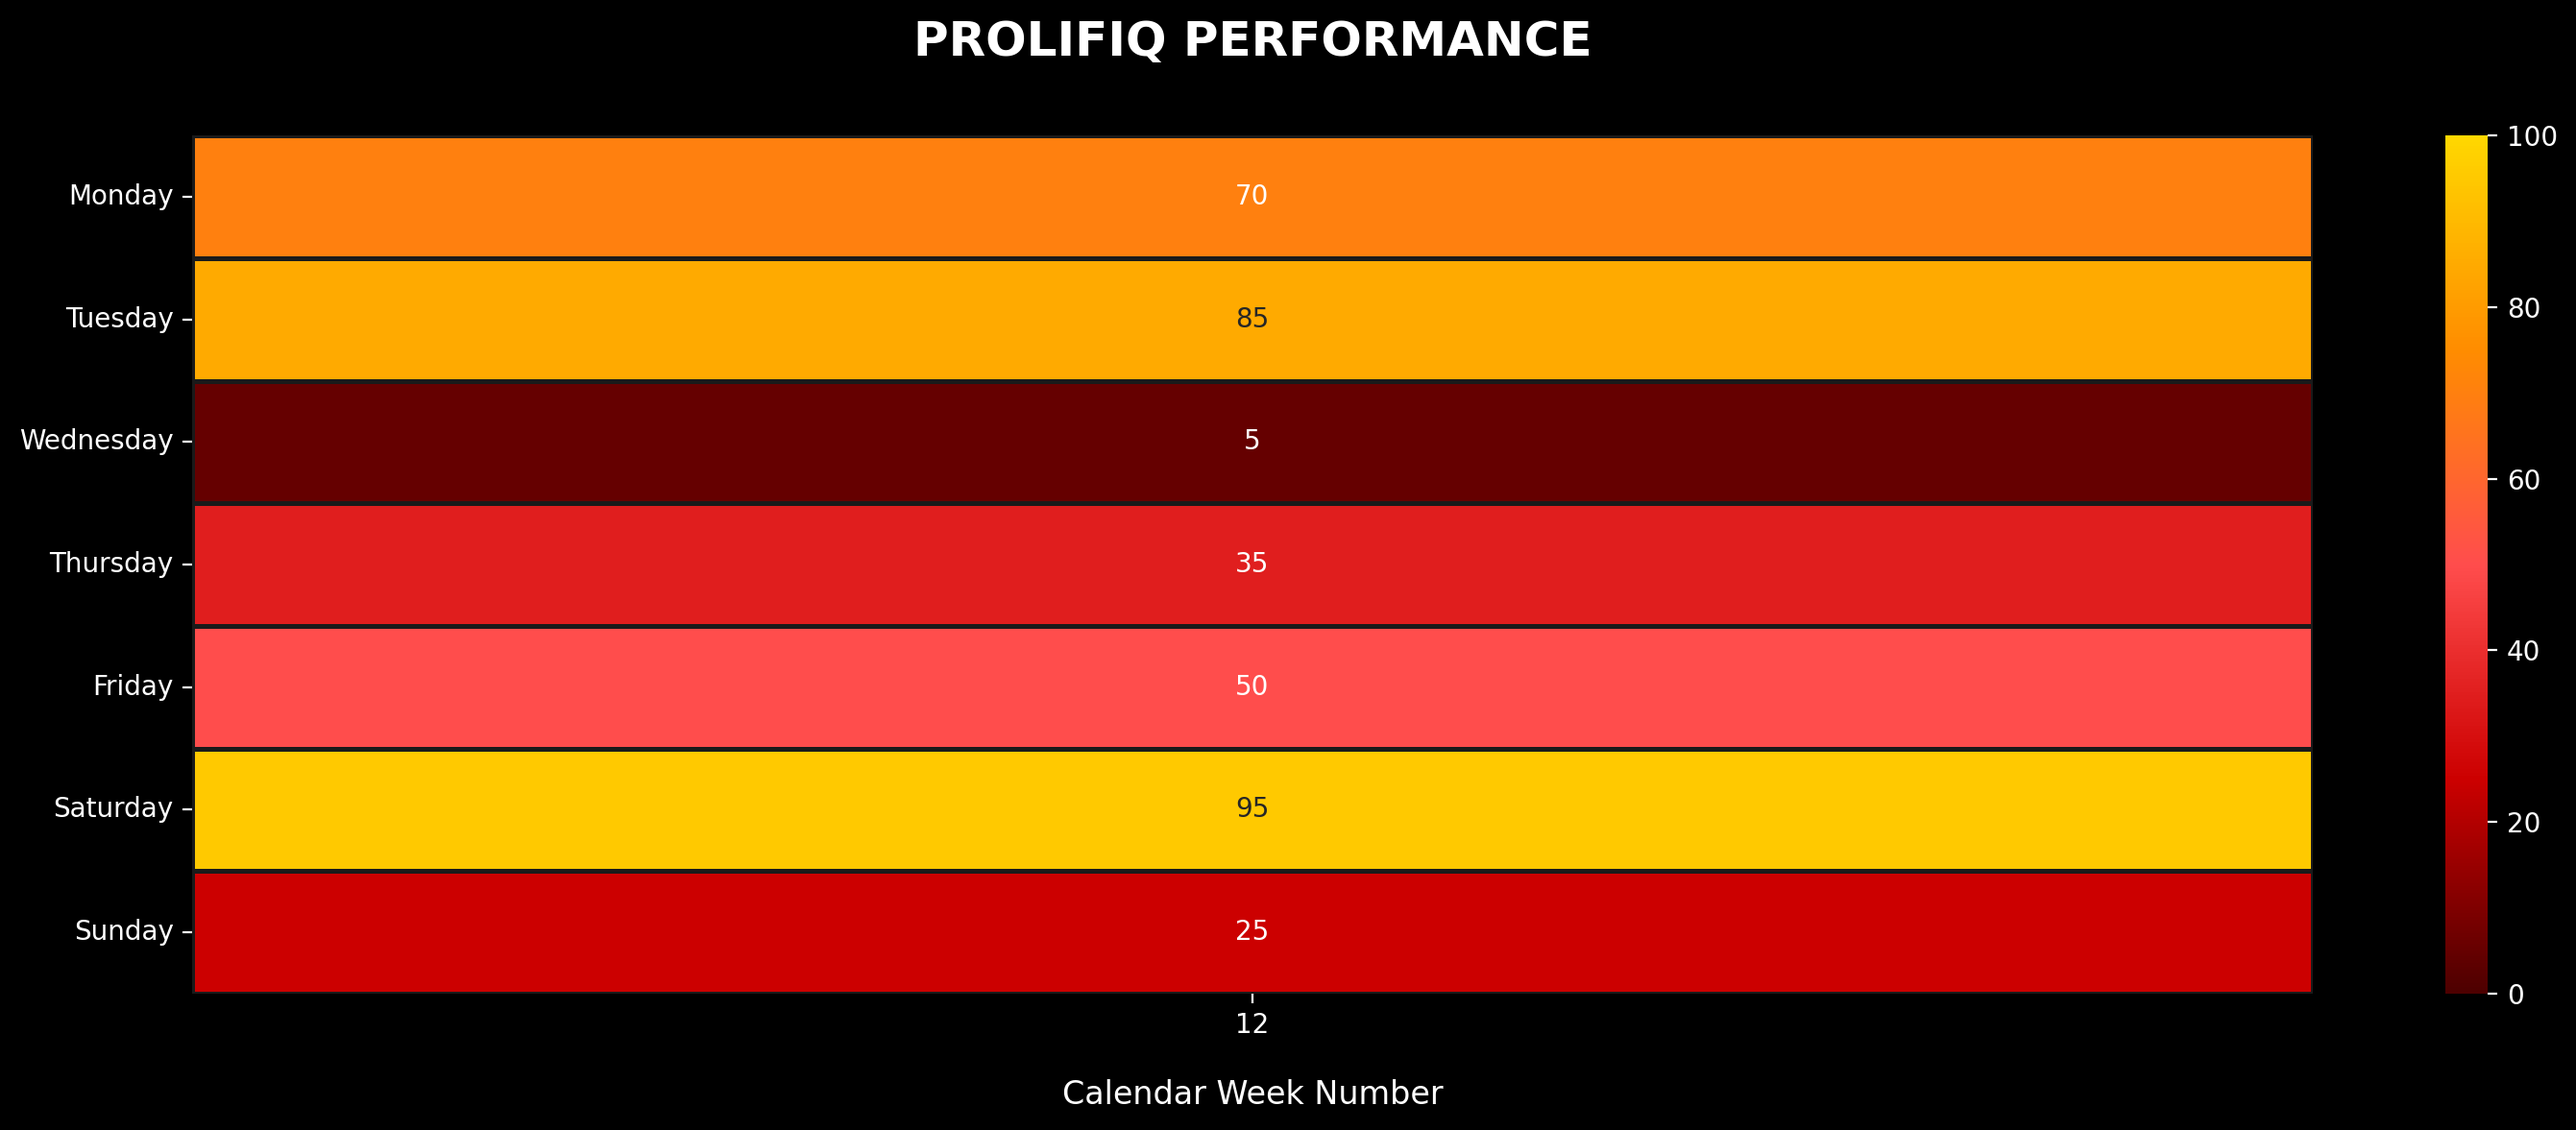
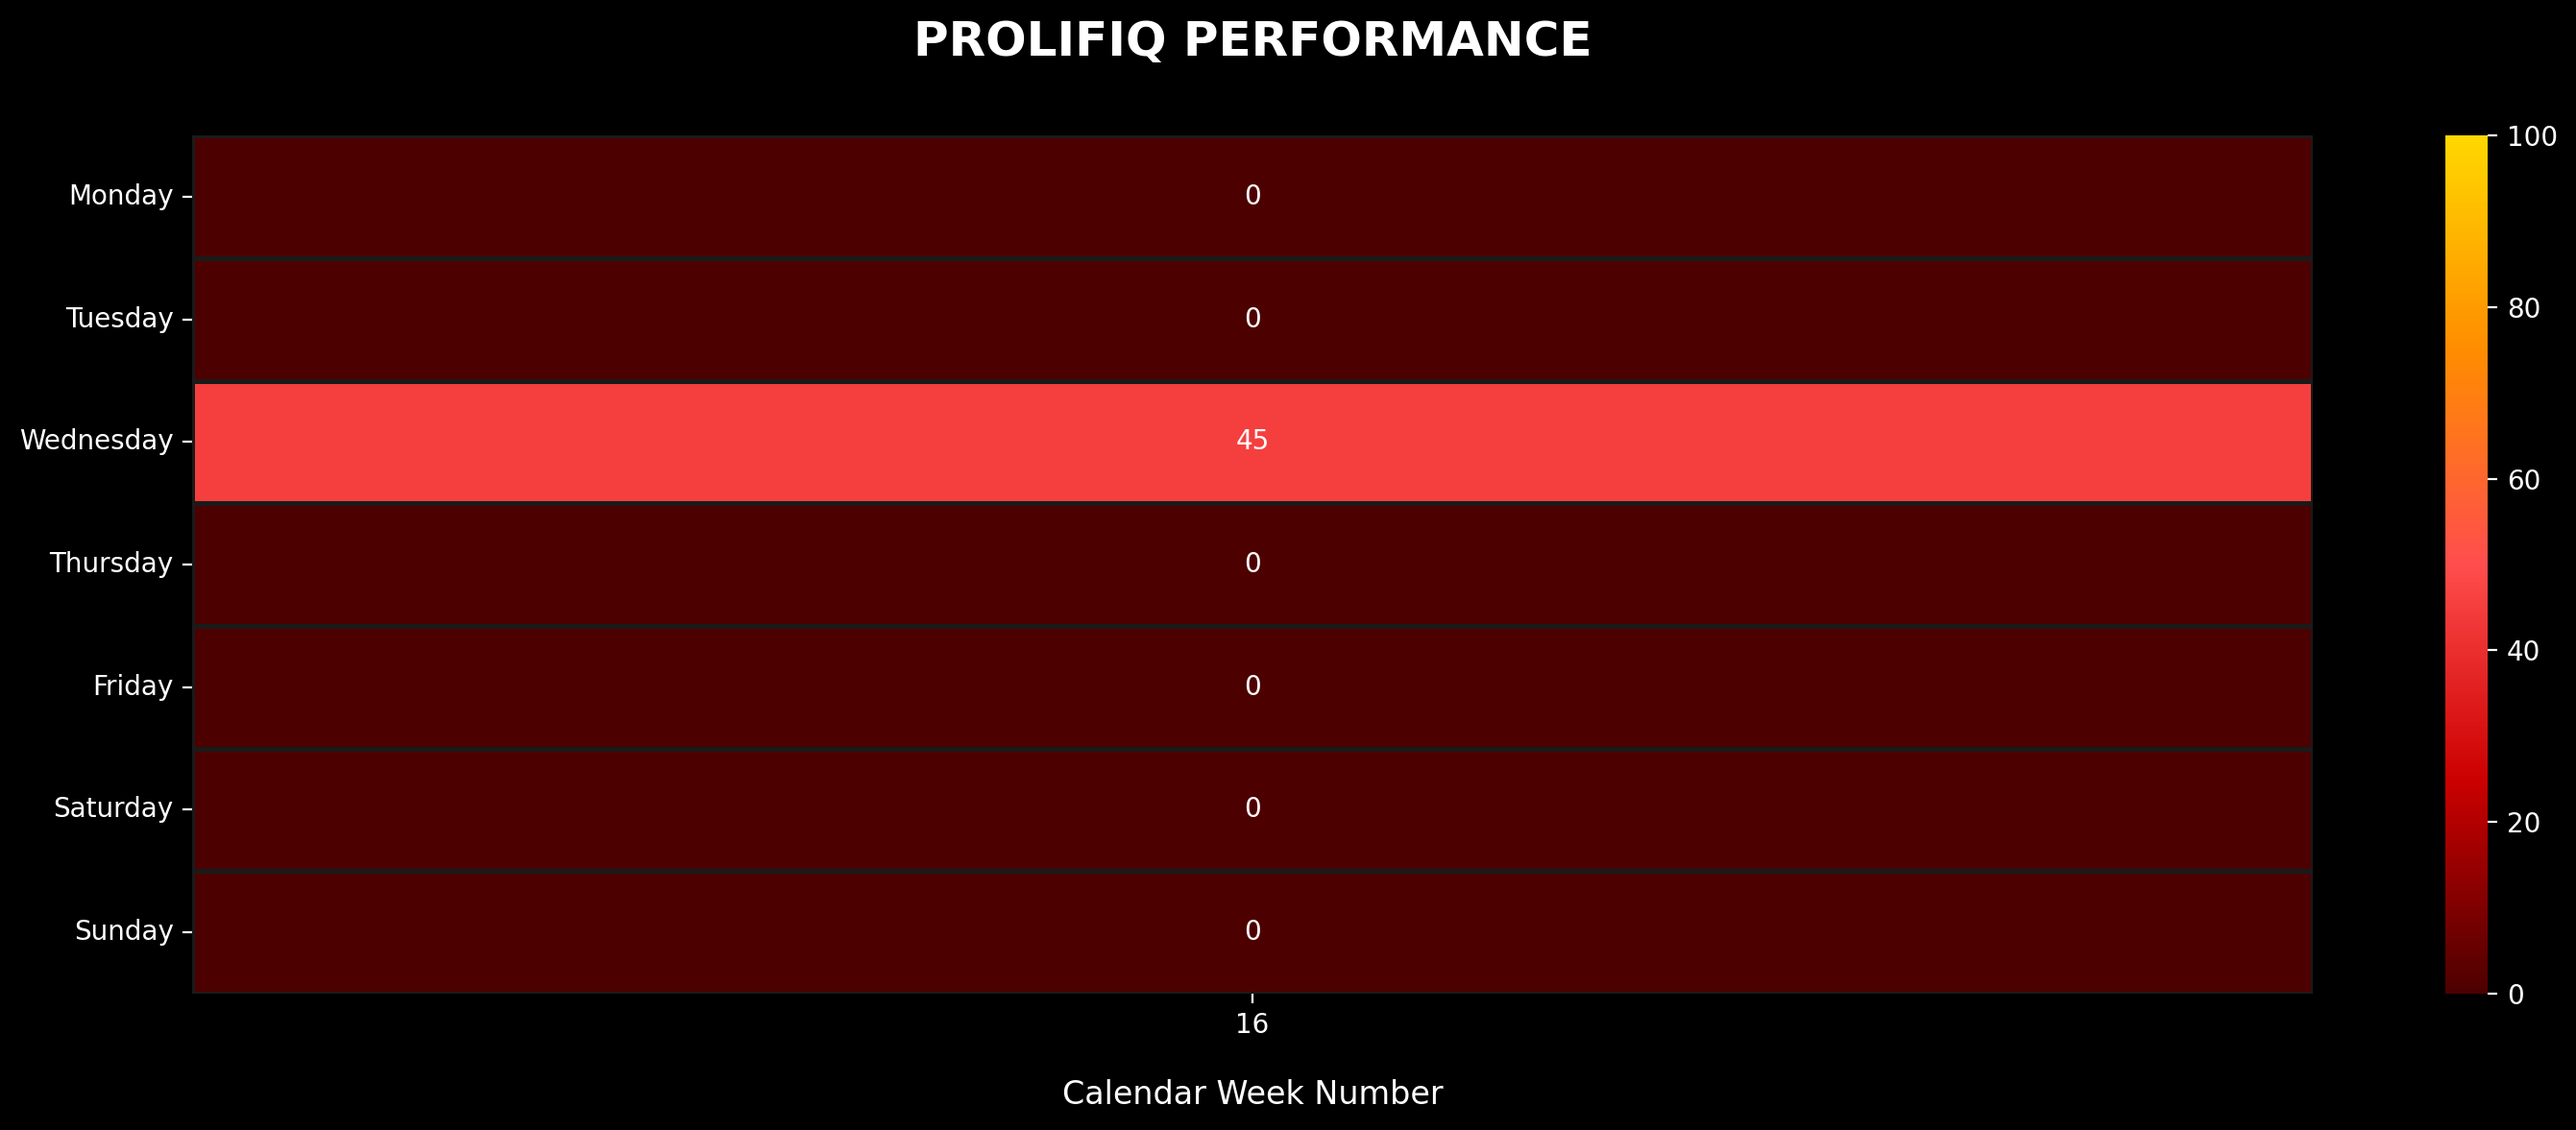
Fixed Finn merge issues and heatmap displays

diff --git a/apps/frontend/src/components/dashboard/DashboardPage.tsx b/apps/frontend/src/components/dashboard/DashboardPage.tsx
@@ -62,30 +62,15 @@ function StatCard({ label, value, delta }: Stat) {
   );
 }
 
-/**
- * Simple “placeholder” productivity heatmap.
- * We’ll replace this later with a real grid + data (and eventually LLM feedback).
- */
-function ProductivityHeatmapCard() {
-  const days = Array.from({ length: 7 }, (_, i) => i);
-  const weeks = Array.from({ length: 16 }, (_, i) => i);
-
-  // 0–4 intensity
-  const levelClass = (lvl: number) => {
-    switch (lvl) {
-      case 0:
-        return "bg-gray-100";
-      case 1:
-        return "bg-gray-200";
-      case 2:
-        return "bg-gray-300";
-      case 3:
-        return "bg-gray-400";
-      default:
-        return "bg-gray-500";
-    }
-  };
-
+function ProductivityHeatmapCard({
+  heatmapImageUrl,
+  isLoading,
+  error,
+}: {
+  heatmapImageUrl: string | null;
+  isLoading: boolean;
+  error: string | null;
+}) {
   return (
     <div className="bg-white border rounded-xl overflow-hidden">
       <PanelHeader
@@ -100,32 +85,25 @@ function ProductivityHeatmapCard() {
       />
 
       <div className="p-5">
-        <div className="flex gap-1">
-          {weeks.map((w) => (
-            <div key={w} className="flex flex-col gap-1">
-              {days.map((d) => {
-                const lvl = (w * 3 + d * 2) % 5; // deterministic “random-ish”
-                return (
-                  <div
-                    key={`${w}-${d}`}
-                    className={`w-4 h-4 rounded ${levelClass(lvl)} border border-gray-100`}
-                    title={`Week ${w + 1}, Day ${d + 1} • Level ${lvl}`}
-                  />
-                );
-              })}
-            </div>
-          ))}
-        </div>
-
-        <div className="mt-4 flex items-center gap-2 text-xs text-gray-500">
-          <span>Less</span>
-          <div className="flex gap-1">
-            {[0, 1, 2, 3, 4].map((lvl) => (
-              <div key={lvl} className={`w-4 h-4 rounded ${levelClass(lvl)} border border-gray-100`} />
-            ))}
+        {isLoading ? (
+          <div className="h-64 flex items-center justify-center text-sm text-gray-500">
+            Generating heatmap...
           </div>
-          <span>More</span>
-        </div>
+        ) : error ? (
+          <div className="h-64 flex items-center justify-center text-sm text-red-600">
+            {error}
+          </div>
+        ) : heatmapImageUrl ? (
+          <img
+            src={heatmapImageUrl}
+            alt="Productivity heatmap"
+            className="w-full h-auto max-h-[55vh] object-contain rounded-lg border border-gray-200 mx-auto"
+          />
+        ) : (
+          <div className="h-64 flex items-center justify-center text-sm text-gray-500">
+            No heatmap available.
+          </div>
+        )}
       </div>
     </div>
   );
@@ -223,6 +201,9 @@ export default function DashboardPage() {
 
   const [transactions, setTransactions] = useState<Transaction[]>([]);
   const [schedule, setSchedule] = useState<ScheduleItem[]>([]);
+  const [heatmapImageUrl, setHeatmapImageUrl] = useState<string | null>(null);
+  const [heatmapLoading, setHeatmapLoading] = useState(true);
+  const [heatmapError, setHeatmapError] = useState<string | null>(null);
   const [isAddTransactionModalOpen, setIsAddTransactionModalOpen] = useState(false);
 
   useEffect(() => {
@@ -290,8 +271,47 @@ export default function DashboardPage() {
     }
   };
 
+  const fetchHeatmap = async () => {
+    try {
+      setHeatmapLoading(true);
+      setHeatmapError(null);
+
+      // Keep dashboard heatmap to one column (current week) with one row per day.
+      const today = new Date();
+      const day = today.getDay(); // Sun=0, Mon=1, ..., Sat=6
+      const diffToMonday = day === 0 ? 6 : day - 1;
+
+      const weekStart = new Date(today);
+      weekStart.setDate(today.getDate() - diffToMonday);
+
+      const weekEnd = new Date(weekStart);
+      weekEnd.setDate(weekStart.getDate() + 6);
+
+      const start = weekStart.toISOString().split("T")[0];
+      const end = weekEnd.toISOString().split("T")[0];
+
+      const res = await fetch(`/api/productivity_heatmap?userID=${userID}&start_date=${start}&end_date=${end}`);
+      if (!res.ok) {
+        throw new Error("Failed to generate heatmap");
+      }
+
+      const data = await res.json();
+      const imagePath = data?.heatmap?.image_path as string | undefined;
+      const imageName = imagePath?.split(/[\\/]/).pop() ?? "heatmap.png";
+
+      setHeatmapImageUrl(`/api/generated/${imageName}?t=${Date.now()}`);
+    } catch (err) {
+      console.error("Failed to fetch heatmap:", err);
+      setHeatmapError("Could not load productivity heatmap.");
+      setHeatmapImageUrl(null);
+    } finally {
+      setHeatmapLoading(false);
+    }
+  };
+
   fetchAllEvents();
   fetchTransactions();
+  fetchHeatmap();
 
 
   }, []);
@@ -314,7 +334,11 @@ export default function DashboardPage() {
       {/* Main row */}
       <div className="grid grid-cols-1 lg:grid-cols-3 gap-4">
         <div className="lg:col-span-2">
-          <ProductivityHeatmapCard />
+          <ProductivityHeatmapCard
+            heatmapImageUrl={heatmapImageUrl}
+            isLoading={heatmapLoading}
+            error={heatmapError}
+          />
         </div>
         <ScheduleCard schedule={schedule}/>
       </div>

diff --git a/apps/frontend/src/components/pages/productivity.tsx b/apps/frontend/src/components/pages/productivity.tsx
@@ -1,3 +1,7 @@
+import { useEffect, useState } from "react";
+import AddTaskModal from  "../app-shell/AddTaskModal";
+import { userID } from "../../App";
+
 export default function ProductivityPage() {
   type Task = {
     task_id?: string;

diff --git a/apps/backend/app.py b/apps/backend/app.py
@@ -1,9 +1,11 @@
 from uuid import UUID
 from fastapi import FastAPI, HTTPException
+from fastapi.staticfiles import StaticFiles
 from fastapi.middleware.cors import CORSMiddleware
 from pydantic import BaseModel
 from typing import Optional
 from datetime import datetime, date, time
+from pathlib import Path
 from db import (edit_user_transaction, get_all_events, 
                 get_calendar_events, create_new_event, delete_user_event,
                 get_calendar_user_event, edit_calendar_user_event, get_user_transactions, 
@@ -20,6 +22,10 @@ from db import (edit_user_transaction, get_all_events,
 #                 delete_user_transaction, get_user_remaining_budget, get_user_budget)
 
 app = FastAPI()
+
+generated_dir = Path(__file__).resolve().parent / "generated"
+generated_dir.mkdir(parents=True, exist_ok=True)
+app.mount("/generated", StaticFiles(directory=generated_dir), name="generated")
 
 app.add_middleware(
     CORSMiddleware,
